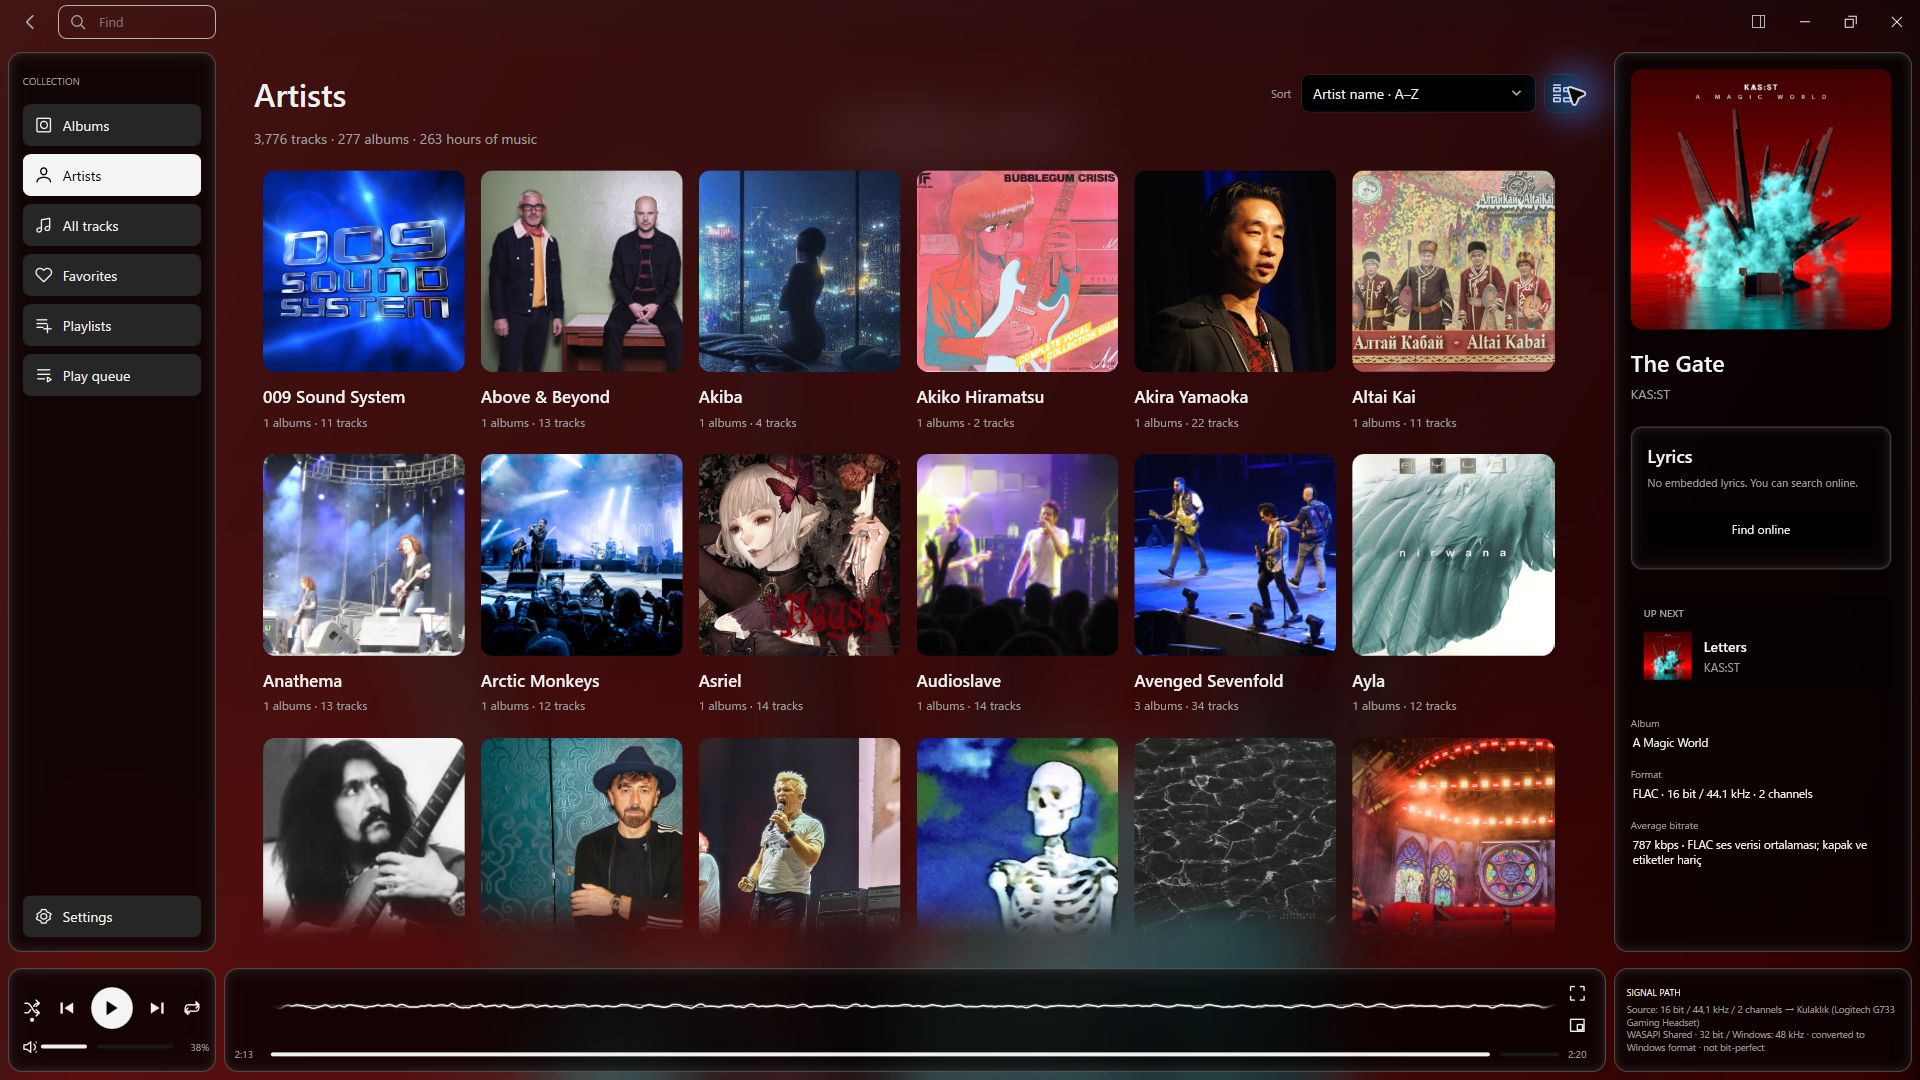
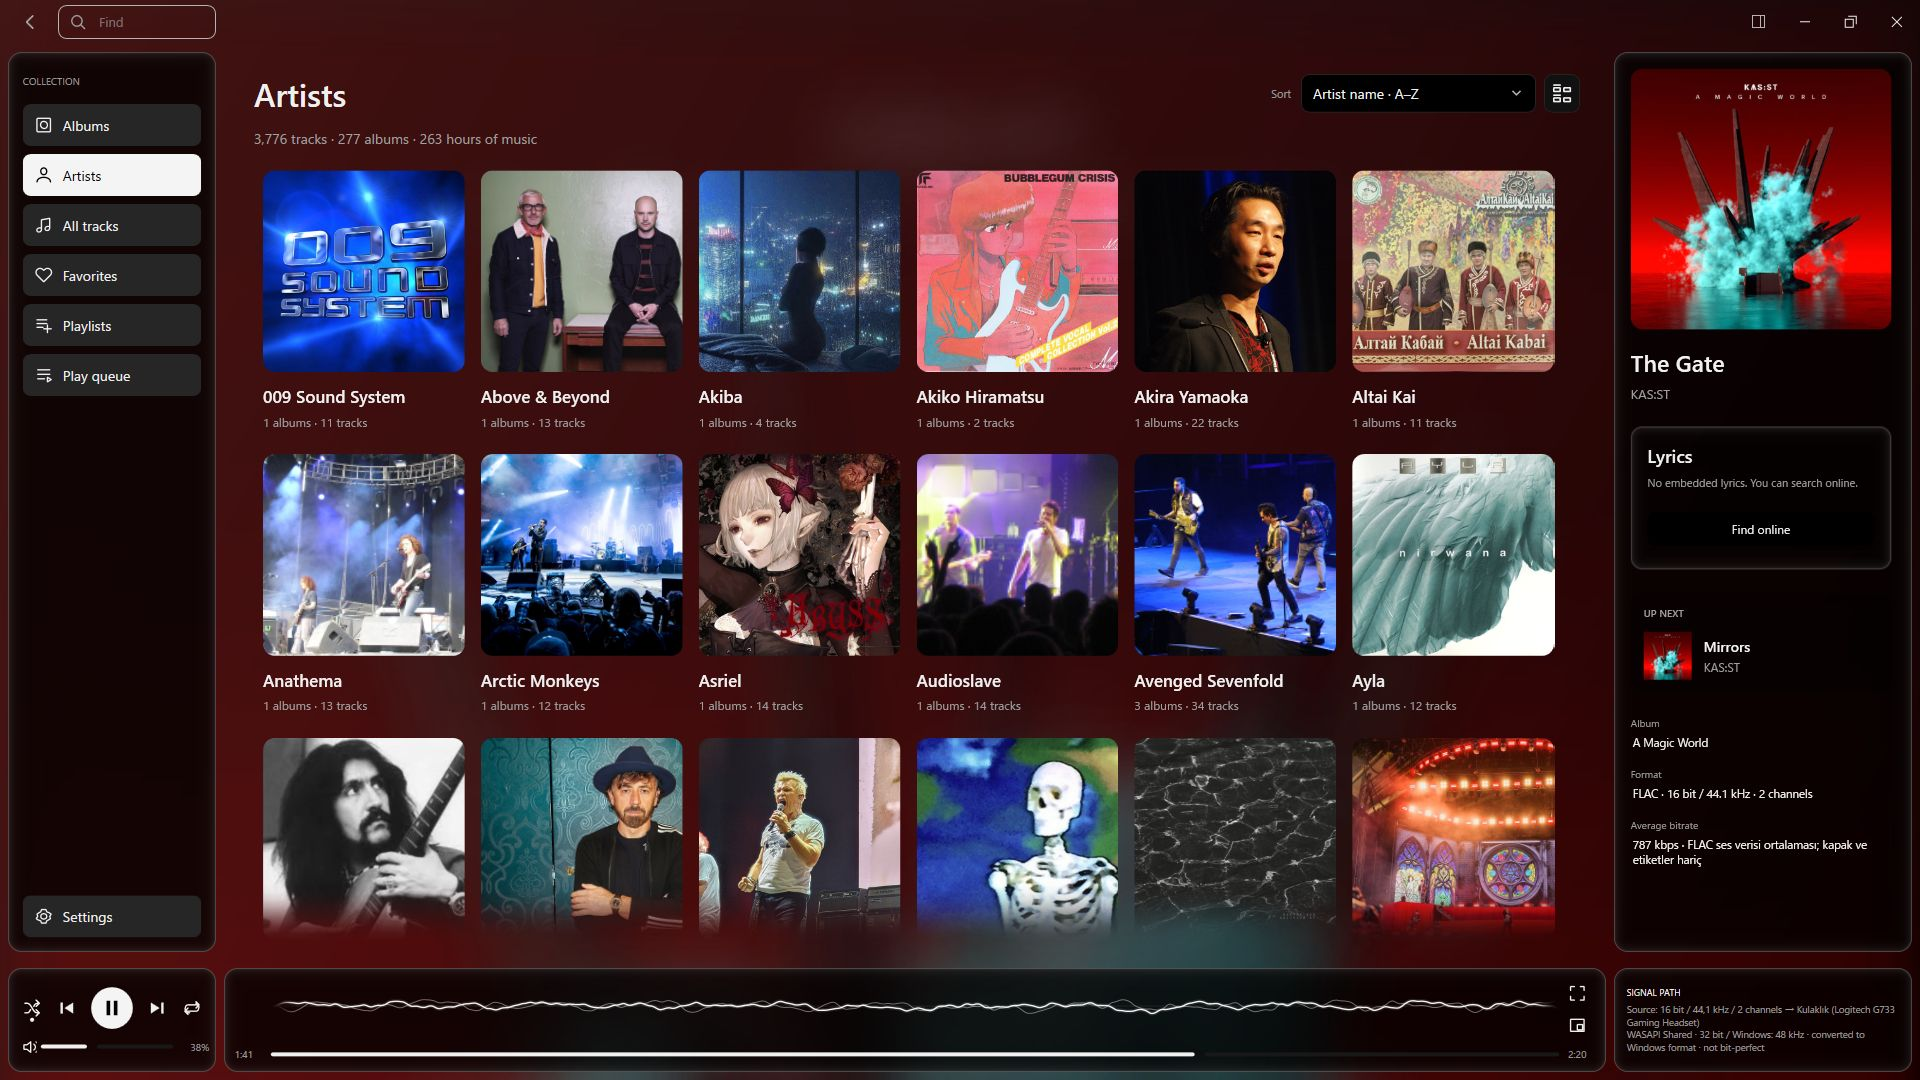
Refresh feature demos with dynamic audio and cursor-free captures

diff --git a/README.md b/README.md
@@ -31,7 +31,7 @@ Captured from the Windows 0.10.54 development build. The latest released version
 
 ### Real-time audio visualizers
 
-Four live modes captured during playback: oscilloscope, spectrum analyzer, VU meter and spectrogram.
+Four live modes captured during playback of Benny Benassi's “Satisfaction (Isak Original Extended)”: oscilloscope, spectrum analyzer, VU meter and spectrogram.
 
 ![Four real-time audio visualizer modes](docs/media/visualizers.gif)
 
